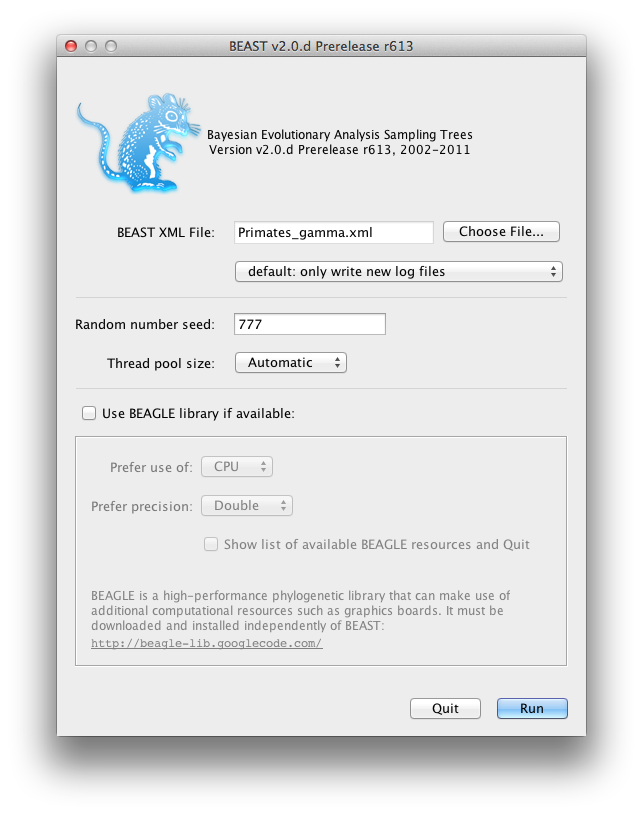
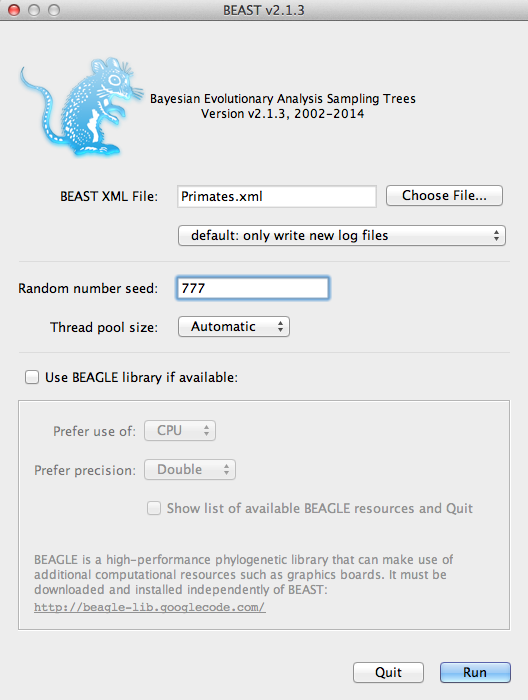
update Divergence Dating Tutorial for 2.1.3 or higher

Changed region(s): [[0.0, 0.0, 1.0, 0.99]]

diff --git a/doc/tutorials/DivergenceDating/DivergenceDatingTutorial.tex b/doc/tutorials/DivergenceDating/DivergenceDatingTutorial.tex
@@ -50,9 +50,9 @@ showstringspaces=false % no special string spaces
 
   
 % BEAST book specific commands
-\newcommand{\BEASTVersion}{2.0}
-\newcommand{\TracerVersion}{1.5}
-\newcommand{\FigTreeVersion}{1.3.1}
+\newcommand{\BEASTVersion}{2.1.x}
+\newcommand{\TracerVersion}{1.6}
+\newcommand{\FigTreeVersion}{1.4.2}
 %\newcommand{\TODO}[1]{{\color{red} #1}}
 \newcommand{\TODO}[1]{}
 \newcommand{\chapter}[1]{}
@@ -85,15 +85,15 @@ cambridgemods baseline-skip author authors cambridgestyle en-vir-on-ment polar}
 \usepackage[all]{xy}
 
 
-\title{Divergence Dating Tutorial with BEAST 2.0}
-\author{Alexei Drummond, Andrew Rambaut and Remco Bouckaert}
+\title{Divergence Dating Tutorial with BEAST {\BEASTVersion}}
+\author{Alexei Drummond, Andrew Rambaut, Remco Bouckaert, and Walter Xie}
 
 \begin{document}
 \maketitle
 
-\newcommand{\chainLength}{{1,000,000}}
-\newcommand{\logEvery}{{200}}
-\newcommand{\screenEvery}{{1000}}
+\newcommand{\chainLength}{{3,000,000}}
+\newcommand{\logEvery}{{1,000}}
+\newcommand{\screenEvery}{{10,000}}
 \newcommand{\mccTree}{{\texttt{Primates.MCC.tree}}}
 
 \section{Introduction}
@@ -104,12 +104,12 @@ You will need the following software at your disposal:
 
 \begin{itemize}
 
-\item {\bf BEAST} - this package contains the BEAST program, BEAUti, TreeAnnotator and other utility programs. This tutorial is written for BEAST v{\BEASTVersion}, which has support for multiple partitions. It is available for download from \\* \texttt{http://beast2.cs.auckland.ac.nz/}.
+\item {\bf BEAST} - this package contains the BEAST program, BEAUti, TreeAnnotator and other utility programs. This tutorial is written for BEAST v{\BEASTVersion}, which has support for multiple partitions. It is available for download from \texttt{http://www.beast2.org/}.
 \item {\bf Tracer} - this program is used to explore the output of BEAST (and other Bayesian MCMC programs). It graphically and
 quantitively summarizes the distributions of continuous parameters and provides diagnostic information. At the time of
-writing, the current version is v{\TracerVersion}. It is available for download from \texttt{http://beast.bio.ed.ac.uk/}.
+writing, the current version is v{\TracerVersion}. It is available for download from\\*\texttt{http://tree.bio.ed.ac.uk/software/}.
 \item {\bf FigTree} - this is an application for displaying and printing molecular phylogenies, in particular those obtained using
-BEAST. At the time of writing, the current version is v{\FigTreeVersion}. It is available for download from \texttt{http://tree.bio.ed.ac.uk/}.
+BEAST. At the time of writing, the current version is v{\FigTreeVersion}. It is available for download from \texttt{http://tree.bio.ed.ac.uk/software/}.
 \end{itemize}
 
 %%%%%%%%%%%%%%%%%%%%%%%%%%%%%%%%%%%%%%%%%%%%%
@@ -124,7 +124,7 @@ This tutorial will guide you through the analysis of an alignment of sequences s
 
 \begin{figure}	
 
-\includegraphics[width=\textwidth]{figures/BEAUti_Alignment.png}
+\includegraphics[width=\textwidth]{figures/AlignmentViewer.png}
 
 \caption{Part of the alignment for primates.\label{fig:primateAlignment}}
 \label{fig:BEAUti_ImportNexus}
@@ -146,17 +146,6 @@ the Linux and Windows versions will have the same layout and functionality.
 \TODO{Provide instructions for executing BEAUti  in a Linux environment.}
 
 \subsection{Loading the NEXUS file }
-
-To load a NEXUS format alignment, simply select the \texttt{Import
-Alignment...} option from the File menu. 
-
-%\begin{figure}
-%
-%\includegraphics[width=\textwidth]{figures/ImportNexus}
-%
-%\caption{A screenshot of the import nexus file menu option in BEAUti. \TODO{Need to have the correct menu shortcuts for OS X!}}
-%\label{fig:BEAUti_ImportNexus}
-%\end{figure}
 
 The example file called \texttt{primates-mtDNA.nex} is in the {\tt examples/nexus/} directory of the directory where BEAST was installed.
 This file contains an alignment of sequences of 12 species of primates. 
@@ -190,6 +179,32 @@ This file contains an alignment of sequences of 12 species of primates.
 %end;\end{verbatim}
 %
 %\medskip{}
+
+To load a NEXUS format alignment, simply select the \texttt{Import Alignment...} option from the File menu, or drag the file into the {\bf Partitions} panel. 
+
+%\begin{figure}
+%
+%\includegraphics[width=\textwidth]{figures/ImportNexus}
+%
+%\caption{A screenshot of the import nexus file menu option in BEAUti. \TODO{Need to have the correct menu shortcuts for OS X!}}
+%\label{fig:BEAUti_ImportNexus}
+%\end{figure}
+
+The following windows (Figure \ref{fig:addPartition} and \ref{fig:warning}) would appear if a related package is installed. If you are using ``pure'' BEAST 2, you can go to the next paragraph.    
+If an \texttt{Add Partition} window pops up, you need to select \texttt{Add Alignment} and click \textbf{OK} to continue (Figure \ref{fig:addPartition}), and then read the following warning message to click \textbf{OK} (Figure \ref{fig:warning}).
+
+\begin{figure}
+\centering	
+\includegraphics[width=7.5cm]{figures/AddPartition.png}
+\caption{Add Partition window (Only appear if related packages are installed).}
+\label{fig:addPartition}
+\end{figure}
+
+\begin{figure}	
+\includegraphics[width=\textwidth]{figures/warning.png}
+\caption{Warning message window (Only appear if related packages are installed).}
+\label{fig:warning}
+\end{figure}
 
 Once loaded, five character partitions are displayed in the main panel (Figure \ref{fig:BEAUTI_DataPartitions}). {\bf You must remove the `coding' partition before continuing to the next step as it refers to the same nucleotides as partitions `1stpos', `2ndpos' and `3rdpos'.} To remove the `coding' partition select the row and click the `-' button at the bottom of the table. 
 %You can view the alignment by double clicking the partition (Figure \ref{fig:BEAUTI_AlignmentViewer}).
@@ -231,7 +246,7 @@ be the default values for nucleotide data so we need to make some changes.
 
 Most of the models should be familiar to you. %(see Chapter {\ref{chapter:SubstitutionModels} for details}). 
 First, set the \textbf{Gamma Category Count} to 4 and then check the `estimate' box for the \textbf{Shape} parameter. This will allow rate variation 
-between sites in each partition to be modeled.  Then select  \textbf{HKY} from the \textbf{Subst Model} drop-down menu (Figure \ref{fig:BEAUti_Model}) and select \textbf{Empirical} from the \textbf{Frequencies} drop-down menu. This will fix the frequencies to the proportions observed in the data (for each partition individually, once we unlink the site models again). This approach means that we can get a good fit to the data without explicitly estimating these parameters. We do it here simply to make the log files a bit shorter and more readable in later parts of the exercise. Finally check the `estimate' box for the \textbf{Substitution rate} parameter and select the \textbf{Fix mean mutation rate} check box. This will allow the individual partitions to have their relative rates estimated once we unlink the site models.
+between sites in each partition to be modeled.  Then select  \textbf{HKY} from the \textbf{Subst Model} drop-down menu and select \textbf{Empirical} from the \textbf{Frequencies} drop-down menu. This will fix the frequencies to the proportions observed in the data (for each partition individually, once we unlink the site models again). This approach means that we can get a good fit to the data without explicitly estimating these parameters. We do it here simply to make the log files a bit shorter and more readable in later parts of the exercise. Finally check the `estimate' box for the \textbf{Substitution rate} parameter and select the \textbf{Fix mean mutation rate} check box. This will allow the individual partitions to have their relative rates estimated once we unlink the site models (Figure \ref{fig:BEAUti_Model}).
 
 \begin{figure}
 \includegraphics[width=\textwidth]{figures/BEAUti_Model}
@@ -239,8 +254,15 @@ between sites in each partition to be modeled.  Then select  \textbf{HKY} from t
 \label{fig:BEAUti_Model}
 \end{figure}
 
-Now, return to the `Partitions' panel and unlink the site models so that each partition has its own named site model with independent substitution model parameters and relative rate.
-%Finally, in order to allow for a different absolute rate of evolution for each partition we will return to the `Site Model' panel and check `estimate' for the \textbf{Mutation Rate} for each of partitions \textbf{noncoding}, \textbf{1stpos}, \textbf{2ndpos} in turn. Don't check `estimate' for the \textpos{3rdpos} because this is the rate that the other partitions will be estimated relative to.
+%Now, return to the {\bf Partitions} panel and unlink the site models so that each partition has its own named site model with independent substitution model parameters and relative rate.
+Finally, hold `shift' key to select all site models on the left side, and click \textbf{OK} to clone the setting from \textbf{noncoding} into \textbf{1stpos}, \textbf{2ndpos} and \textbf{3rdpos} (Figure \ref{fig:cloneFrom}). 
+
+\begin{figure}
+\includegraphics[width=\textwidth]{figures/cloneFrom}
+\caption{clone configuration from one site model to others.}
+\label{fig:cloneFrom}
+\end{figure}
+
 
 \subsection{Setting the clock model}
 
@@ -284,26 +306,43 @@ ancestor (MRCA) later on.
 
 Name the taxa set by filling in the taxon set label entry. 
 Call it \texttt{human-chimp} (it will contain the taxa for {\it Homo sapiens} and {\it Pan}).
-In next list below you will see the available taxa. Select each of the two taxa in turn and press the $> >$ arrow button. 
+In next list below you will see the available taxa. Select each of the two taxa in turn and press the $> >$ arrow button. (Figure \ref{fig:BEAUti_TaxonSets}).
 Click OK and the newly defined taxa set will be added in to the prior list.
 As this is a calibrated node to be used in conjunction with the Calibrated Yule prior, monophyly must be enforced, so select the checkbox marked \texttt{Monophyletic}. This will constrain the tree topology so that the human-chimp grouping is kept monophyletic during the course of the MCMC analysis.
 
-We now need to specify a prior distribution on the calibrated node, based on our prior fossil knowledge. This is known
-as calibrating our tree. Select the \textbf{Normal} distribution from the drop down menu to the right of the newly added \texttt{human-chimp.prior}. Click on the black triangle to the right and
-a graph of the probability density function will appear, along with parameters for the normal distribution.
-We are going to specify a normal distribution centered at 6 million
-years with a standard deviation of 0.5 million years. This will give
-a central 95\% range of about 5-7 My. This roughly corresponds to the current consensus
-estimate of the date of the most recent common ancestor of humans and chimpanzees (Figure \ref{fig:BEAUti_TaxonSets}).
-
 \begin{figure}
-\includegraphics[width=\textwidth]{figures/BEAUti_TaxonSets}
-\caption{A screenshot of the calibration prior options in the Priors panel in BEAUti.}
+\centering
+\includegraphics[width=9cm]{figures/BEAUti_TaxonSets}
+\caption{Taxon set editor in BEAUti.}
 \label{fig:BEAUti_TaxonSets}
 \end{figure}
 
-Finally we will also specify some diffuse ``uninformative'' but proper priors on the overall molecular clock rate (\texttt{clockRate}) and the speciation rate (\texttt{birthRateY}) of the Yule tree prior. For each of these parameters select \textbf{Gamma} from the drop-down menu and using the arrow button to the right, expand the view to reveal the parameters of the Gamma prior. For both the clock rate and the Yule birth rate set the Alpha (shape) parameter to 0.001 and the Beta (scale) parameter to 1000.
+To encode the calibration information we need to specify a distribution for the MRCA of human-chimp.
+Select the \textbf{Log-normal} distribution from the drop down menu to the right of the newly added \texttt{human-chimp.prior}. 
+Click on the black triangle and a graph of the probability density function will appear, along with parameters for the log normal distribution.
+We are going to set $M=1.78$ and $S=0.085$ which will specify a distribution centred at about 6 million
+years with a standard deviation of about 0.5 million years. This will give
+a central 95\% probability range covering 5-7 Mya. This roughly corresponds to the current consensus
+estimate of the date of the most recent common ancestor of humans and chimpanzees (Figure \ref{fig:BEAUti_Prior2}).
 
+%We now need to specify a prior distribution on the calibrated node, based on our prior fossil knowledge. This is known
+%as calibrating our tree. Select the \textbf{Log Normal} distribution from the drop down menu to the right of the newly added \texttt{human-%chimp.prior}. Click on the black triangle to the right and a graph of the probability density function will appear, along with parameters for the log-%normal distribution.
+%We are going to specify a normal distribution centered at 6 million years with a standard deviation of 0.5 million years. This will give a central 95\% range of about 5-7 My. 
+%This roughly corresponds to the current consensus estimate of the date of the most recent common ancestor of humans and chimpanzees (Figure %\ref{fig:BEAUti_TaxonSets}).
+
+\begin{figure}
+\includegraphics[width=\textwidth]{figures/BEAUti_Prior2}
+\caption{A screenshot of the calibration prior options in the Priors panel in BEAUti.}
+\label{fig:BEAUti_Prior2}
+\end{figure}
+
+Finally we will also specify some diffuse ``uninformative'' but proper priors on the overall molecular clock rate (\texttt{clockRate}) and the speciation rate (\texttt{birthRateY}) of the Yule tree prior. For each of them, select \textbf{Gamma} from the drop-down list and expand the view using the arrow button to the left. For both the clock rate and the Yule birth rate, set the Alpha (shape) parameter to 0.001 and the Beta (scale) parameter to 1000 (Figure \ref{fig:GammaPrior}).
+
+\begin{figure}
+\includegraphics[width=\textwidth]{figures/GammaPrior}
+\caption{Gamma prior.}
+\label{fig:GammaPrior}
+\end{figure}
 
 %Finally, put a log-normal distribution on the kappa parameters. \TODO{with what M and S parameters?}
 %The clock model parameters will appear when the clock rate is estimated. 
@@ -328,8 +367,8 @@ steps the MCMC will make in the chain before finishing. How long this
 should be depends on the size of the data set, the complexity of the
 model and the quality of answer required. The default value of 10,000,000
 is entirely arbitrary and should be adjusted according to the size
-of your data set. For this data set let's initially set the chain
-length to \chainLength{} as this will run reasonably quickly on most modern
+of your data set. For this data set let's initially set the \texttt{chain
+length} to \underline{\chainLength{}} as this will run reasonably quickly on most modern
 computers (a few minutes).
 
 %\begin{figure}
@@ -351,9 +390,9 @@ very large files with little extra benefit in terms of the accuracy
 of the analysis. Sample too infrequently and the log file will not
 record sufficient information about the distributions of the parameters. 
 You probably want to aim to store no more than 10,000 samples so this should be
-set to no less than chain length / 10000.
+set to no less than chain length / 10,000.
 
-For this exercise we will set the screen log to \screenEvery{} and the trace log to \logEvery{}. The final two
+For this exercise we will set the \texttt{screen log} to \underline{\screenEvery{}} and the \texttt{trace log} to \underline{\logEvery{}}. The final two
 options give the file names of the log files for the sampled parameters and
 the trees. These will be set to a default based on the name of the
 imported NEXUS file. 
@@ -388,7 +427,7 @@ look something like this:
 
 {\scriptsize   
 \begin{verbatim}
-          BEAST v2.0.d Prerelease r613, 2002-2011
+                  BEAST v2.1.3, 2002-2014
        Bayesian Evolutionary Analysis Sampling Trees
                  Designed and developed by
 Remco Bouckaert, Alexei J. Drummond, Andrew Rambaut and Marc A. Suchard
@@ -421,20 +460,22 @@ Source code distributed under the GNU Lesser General Public License:
                          Thanks to:
     	Roald Forsberg, Beth Shapiro and Korbinian Strimmer
 
+File: Primates.xml seed: 777 threads: 1
 
-Random number seed: 777
-
-12 taxa
-898 sites
-413 patterns
-TreeLikelihood uses beast.evolution.likelihood.BeerLikelihoodCore4
-TreeLikelihood uses beast.evolution.likelihood.BeerLikelihoodCore4
-TreeLikelihood uses beast.evolution.likelihood.BeerLikelihoodCore4
-TreeLikelihood uses beast.evolution.likelihood.BeerLikelihoodCore4
+  Using rescaling scheme : dynamic
+  Using BEAGLE version: 2.1.2 resource 0: CPU
+    with instance flags:  PRECISION_DOUBLE COMPUTATION_SYNCH EIGEN_REAL SCALING_MANUAL SCALERS_RAW VECTOR_NONE THREADING_NONE PROCESSOR_CPU FRAMEWORK_CPU
+  Using BEAGLE version: 2.1.2 resource 0: CPU
+    with instance flags:  PRECISION_DOUBLE COMPUTATION_SYNCH EIGEN_REAL SCALING_MANUAL SCALERS_RAW VECTOR_NONE THREADING_NONE PROCESSOR_CPU FRAMEWORK_CPU
+  Using BEAGLE version: 2.1.2 resource 0: CPU
+    with instance flags:  PRECISION_DOUBLE COMPUTATION_SYNCH EIGEN_REAL SCALING_MANUAL SCALERS_RAW VECTOR_NONE THREADING_NONE PROCESSOR_CPU FRAMEWORK_CPU
+  Using BEAGLE version: 2.1.2 resource 0: CPU
+    with instance flags:  PRECISION_DOUBLE COMPUTATION_SYNCH EIGEN_REAL SCALING_MANUAL SCALERS_RAW VECTOR_NONE THREADING_NONE PROCESSOR_CPU FRAMEWORK_CPU
 ======================================================
 Please cite the following when publishing this model:
 
-A prototype for BEAST 2.0: The computational science of evolutionary software. Bouckaert, Drummond, Rambaut, Alekseyenko, Suchard, Walter & the BEAST Core Development Team. 2010
+Remco Bouckaert, Joseph Heled, Denise Kuehnert, Tim Vaughan, Chieh-Hsi Wu, Dong Xie, Marc Suchard, Andrew Rambaut,Start likelihood: -7939.559067600949 
+ Alexei J Drummond BEAST 2: A software platform for Bayesian evolutionary analysis. PLOS Computational Biology 10(4): e1003537, 2014
 
 Heled J, Drummond AJ. Calibrated Tree Priors for Relaxed Phylogenetics and Divergence Time Estimation. Syst Biol (2012) 61 (1): 138-149.
 
@@ -442,50 +483,49 @@ Hasegawa, M., Kishino, H and Yano, T. 1985. Dating the human-ape splitting by a 
 
 
 ======================================================
-Trying to write file primate-mtDNA.777.log but the file already exists (perhaps use the -overwrite flag?).
-Overwrite (Y/N)?:
-Y
-Writing file primate-mtDNA.777.log
+Writing file /Users/dxie004/Documents/BEAST2/DivergenceDatingTutorial/primate-mtDNA.log
          Sample      posterior ESS(posterior)     likelihood          prior
-Writing file primate-mtDNA.tree.777.trees
-              0     -7766.9711              N     -7688.4922       -78.4789 --
-          10000     -5527.1265         2.0        -5453.0299       -74.0966 --
-          20000     -5521.2666         3.0        -5446.4954       -74.7711 --
-          30000     -5518.7901         4.0        -5442.6380       -76.1520 --
-          40000     -5514.6676         5.0        -5438.3693       -76.2982 --
-          50000     -5522.7987         6.0        -5447.3333       -75.4654 --
-          60000     -5513.6936         7.0        -5440.6748       -73.0187 2m50s/Msamples
+Writing file /Users/dxie004/Documents/BEAST2/DivergenceDatingTutorial/tree.trees
+              0     -7924.3599              N     -7688.4922      -235.8676 --
+          10000     -5523.1281         2.0        -5451.4142       -71.7139 --
+          20000     -5524.1632         3.0        -5445.1231       -79.0401 --
+          30000     -5515.9203         4.0        -5441.8444       -74.0759 --
+          40000     -5513.6938         5.0        -5440.5830       -73.1108 --
+          50000     -5518.7113         6.0        -5447.3710       -71.3403 --
+          60000     -5515.6182         7.0        -5440.9238       -74.6944 1m51s/Msamples
+          70000     -5517.6669         8.0        -5444.8966       -72.7703 1m50s/Msamples
           ...
-        9990000     -5512.1732       739.1        -5441.1958       -70.9773 2m49s/Msamples
-       10000000     -5515.2321       734.5        -5437.9182       -77.3138 2m49s/Msamples
+        2990000     -5519.5032       247.6        -5443.7829       -75.7202 1m55s/Msamples
+        3000000     -5515.6591       249.3        -5444.7916       -70.8675 1m55s/Msamples
 Operator                                                              Tuning	#accept	#reject	#total	acceptance rate
-ScaleOperator_treeScaler.t:tree                                       0.728 	75940	281958	357898	0.212 
-ScaleOperator_treeRootScaler.t:tree                                   0.581 	48659	309158	357817	0.136 
-Uniform_UniformOperator.t:tree                                              	799104	2781229	3580333	0.223 
-SubtreeSlide_SubtreeSlide.t:tree                                      10.01 	450154	1339576	1789730	0.252 
-Exchange_narrow.t:tree                                                      	1368	1787165	1788533	0.001 
-Exchange_wide.t:tree                                                        	25	357913	357938	0 
-WilsonBalding_WilsonBalding.t:tree                                          	14	358742	358756	0 
-ScaleOperator_gammaShapeScaler.s:noncoding                            0.369 	2843	8998	11841	0.24 
-ScaleOperator_KappaScaler.s:noncoding                                 0.352 	2950	8870	11820	0.25 
-DeltaExchangeOperator_FixMeanMutationRatesOperator                    0.340 	35796	203561	239357	0.15 
-ScaleOperator_KappaScaler.s:1stpos                                    0.420 	2713	9297	12010	0.226 
-ScaleOperator_gammaShapeScaler.s:1stpos                               0.419 	3266	8762	12028	0.272 
-ScaleOperator_KappaScaler.s:2ndpos                                    0.324 	2886	8933	11819	0.244 
-ScaleOperator_gammaShapeScaler.s:2ndpos                               0.278 	2984	9046	12030	0.248 
-ScaleOperator_KappaScaler.s:3rdpos                                    0.541 	2622	9246	11868	0.221 
-ScaleOperator_gammaShapeScaler.s:3rdpos                               0.308 	3343	8577	11920	0.28 
-ScaleOperator_CalibratedYuleBirthRateScaler.t:tree                    0.249 	98194	258404	356598	0.275 
-ScaleOperator_StrictClockRateScaler.c:clock                           0.704 	82888	276401	359289	0.231 
-UpDownOperator_strictClockUpDownOperator.c:clock                      0.600 	85379	273037	358416	0.238 
-Total calculation time: 1710.509 seconds
+beast.evolution.operators.ScaleOperator_treeScaler.t:tree             0.694 	19418	87709	107127	0.181 
+beast.evolution.operators.ScaleOperator_treeRootScaler.t:tree         0.644 	18839	88900	107739	0.175 
+beast.evolution.operators.Uniform_UniformOperator.t:tree                    	240273	833290	1073563	0.224 
+beast.evolution.operators.SubtreeSlide_SubtreeSlide.t:tree            9.098 	147088	390301	537389	0.274 
+beast.evolution.operators.Exchange_narrow.t:tree                            	421	536829	537250	0.001 
+beast.evolution.operators.Exchange_wide.t:tree                              	8	107544	107552	0 
+beast.evolution.operators.WilsonBalding_WilsonBalding.t:tree                	8	106739	106747	0 
+beast.evolution.operators.ScaleOperator_gammaShapeScaler.s:noncoding  0.389 	951	2502	3453	0.275 
+beast.evolution.operators.ScaleOperator_KappaScaler.s:noncoding       0.387 	981	2491	3472	0.283 
+beast.evolution.operators.DeltaExchangeOperator_FixMeanMutationRatesOperator0.381 	9591	61904	71495	0.134 
+beast.evolution.operators.ScaleOperator_KappaScaler.s:1stpos          0.425 	825	2667	3492	0.236 
+beast.evolution.operators.ScaleOperator_gammaShapeScaler.s:1stpos     0.386 	868	2794	3662	0.237 
+beast.evolution.operators.ScaleOperator_KappaScaler.s:2ndpos          0.343 	924	2647	3571	0.259 
+beast.evolution.operators.ScaleOperator_gammaShapeScaler.s:2ndpos     0.274 	867	2701	3568	0.243 
+beast.evolution.operators.ScaleOperator_KappaScaler.s:3rdpos          0.551 	780	2719	3499	0.223 
+beast.evolution.operators.ScaleOperator_gammaShapeScaler.s:3rdpos     0.333 	1133	2411	3544	0.32 
+beast.evolution.operators.ScaleOperator_CalibratedYuleBirthRateScaler.t:tree0.260 	31511	75785	107296	0.294 
+beast.evolution.operators.ScaleOperator_StrictClockRateScaler.c:clock 0.707 	25395	82605	108000	0.235 
+beast.evolution.operators.UpDownOperator_strictClockUpDownOperator.c:clock0.592 	26181	81401	107582	0.243 
+Total calculation time: 347.045 seconds
+End likelihood: -5515.659153809371
 \end{verbatim}}
 
 \section{Analyzing the results}
 
 Run the program called {\bf Tracer} to analyze the output of BEAST. When the main
 window has opened, choose {\bf Import Trace File...} from the {\bf File} menu and select the file that
-BEAST has created called \texttt{Primates.log} (Figure \ref{fig:Tracer1}).
+BEAST has created called \texttt{primate-mtDNA.log} (Figure \ref{fig:Tracer1}).
 
 \begin{figure}
 \includegraphics[width=\textwidth]{figures/Tracer1}
@@ -518,7 +558,7 @@ age of the root and the calibration MRCA we specified earlier in BEAUti. You can
 
 \begin{figure}
 \includegraphics[width=\textwidth]{figures/Tracer_marginalDensity}
-\caption{A screenshot of the marginal posterior densities of the relative substitution rates of the four partitions (relative to the site-weighted mean rate). This plot shows that codon positions 1 and 2 have substantially different rates (0.452 versus 0.181) and both are far slower than codon position 3 with a relative rate of 2.95. The noncoding partition has a rate intermediate between codon positions 1 and 2 (0.344). Taken together this result suggests strong purifying selection in both the coding and noncoding regions of the alignment.}
+\caption{A screenshot of the marginal posterior densities of the relative substitution rates of the four partitions (relative to the site-weighted mean rate). This plot shows that codon positions 1 and 2 have substantially different rates (0.455 versus 0.184) and both are far slower than codon position 3 with a relative rate of 2.942. The noncoding partition has a rate intermediate between codon positions 1 and 2 (0.345). Taken together this result suggests strong purifying selection in both the coding and noncoding regions of the alignment.}
 \label{fig:Tracer_marginalDensity}
 \end{figure}
 
@@ -592,8 +632,8 @@ node. Run the TreeAnnotator program and set it up as depicted in Figure \ref{fig
 
 The burnin is the number of trees to remove from the start of the sample. Unlike {\bf Tracer} which specifies the number of
 steps as a burnin, in {\bf TreeAnnotator} you need to specify the actual number of trees. For this run, you specified a chain
-length of \chainLength{} steps sampling every \logEvery{} steps. Thus the trees file will contain 5000 trees and so to specify a 1\% burnin
-use the value 50.
+length of \chainLength{} steps sampling every \logEvery{} steps. Thus the trees file will contain 3,000 trees and so to specify a 10\% burnin
+in the top text field.
 
 The {\bf Posterior probability limit} option specifies a limit such that if a node is found at less than this frequency in the sample
 of trees (i.e., has a posterior probability less than this limit), it will not be annotated. The default of 0.5 means that only nodes
